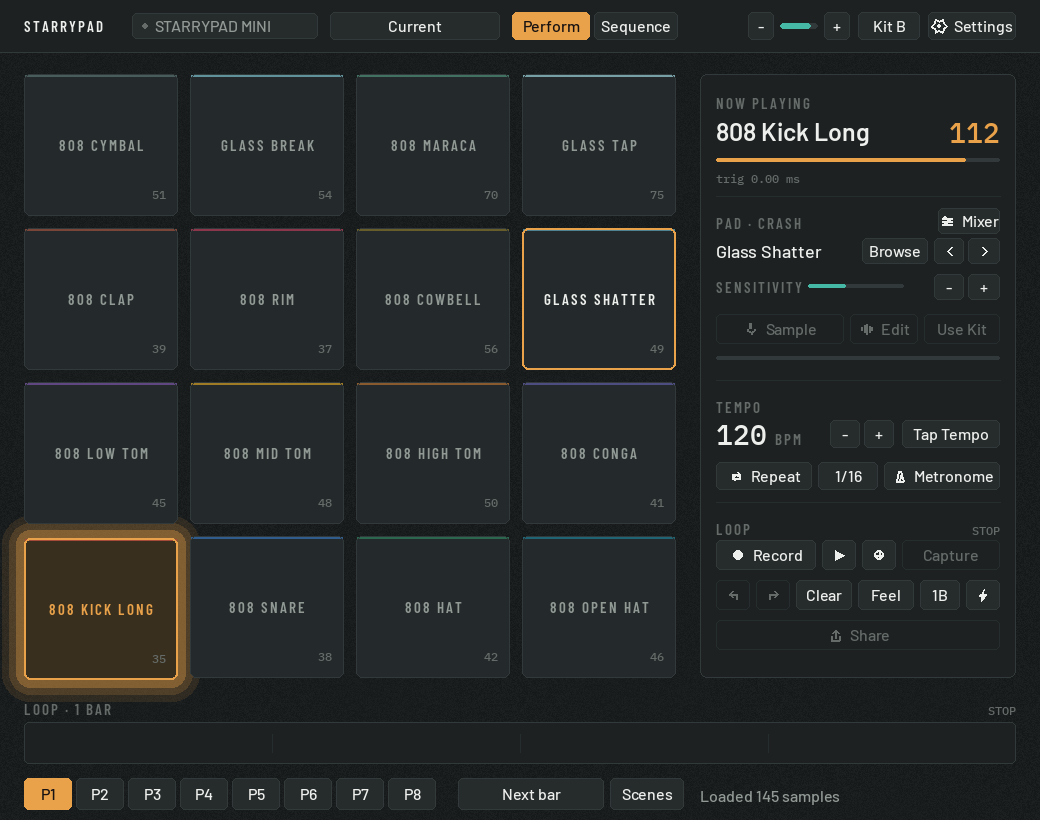
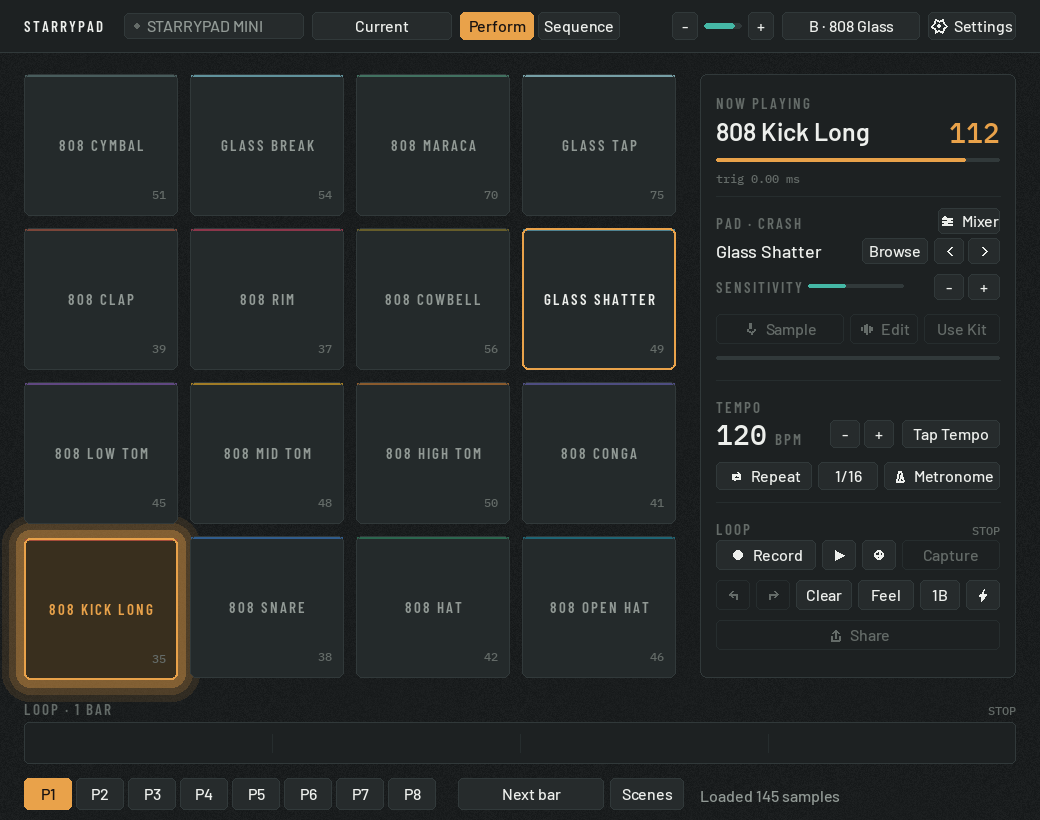
Name the kits, so the sound switch stops hiding
Kit B shipped an 808 kit and then hid it. The header button said "Kit A", which
names a slot and not its contents, while P1 to P8 sat along the bottom looking
exactly like preset buttons. Reaching for P2 to get the new sounds is the
reasonable move when the interface is laid out that way.

Kits are now named. The header reads "A · Acoustic" or "B · 808 Glass", so the
button says what it holds and what switching would get you. K cycles kits from
the keyboard, and switch_kit sets a visible status instead of only writing to
the diagnostics log, which is where the previous confirmation went to die.

The tooltips name both axes: the kit button is "Sound kit, not pattern (K)" with
the current kit appended, and each pattern button is "Pattern N: a rhythm, not a
sound kit". The header was re-laid to make room, shifting the project button and
view tabs left; nothing overlaps at any of the three UI scales.

Patterns keep meaning patterns. Binding kits to them would cost the eight slot
sequencer, its queued switching and its song order, to solve a labelling problem.

diff --git a/drum_pad_native.py b/drum_pad_native.py
@@ -878,6 +878,9 @@ KIT_B_PAD_SYNTHS = (
     "cymbal8", "glass_break", "maraca8", "glass_tap",
 )
 FACTORY_KIT_SYNTHS = {"A": DEFAULT_PAD_SYNTHS, "B": KIT_B_PAD_SYNTHS}
+# Naming the kits is what tells you they hold sounds. "Kit A" told you nothing,
+# so people reached for the pattern buttons instead.
+KIT_NAMES = {"A": "Acoustic", "B": "808 Glass", "C": "Kit C", "D": "Kit D"}
 SYNTH_TO_GM_NOTE = {
     "kick": 36,
     "snare": 38,
@@ -2264,7 +2267,8 @@ class DrumPadNative:
         self.mixer_bypass = False
         self.pad_selection = {self.selected_pad}
         self.persist_settings()
-        self.log(f"Kit: {self.active_kit}")
+        self.status = f"Kit {self.active_kit}: {KIT_NAMES.get(self.active_kit, self.active_kit)}"
+        self.log(self.status)
 
     def adjust_pad_sensitivity(self, amount):
         self.push_project_history()
@@ -3752,6 +3756,8 @@ class DrumPadNative:
             self.request_loop_command("REDO")
         elif key == pygame.K_c:
             self.request_loop_command("CAPTURE")
+        elif key == pygame.K_k:
+            self.switch_kit()
         elif key == pygame.K_q:
             self.request_loop_command("QUANTIZE")
         elif key == pygame.K_s:
@@ -6363,13 +6369,16 @@ class DrumPadNative:
             "loop_quantize": "Feel and quantize  (Q)", "loop_clear": "Clear the loop",
             "loop_bars": "Loop length", "repeat": "Note repeat  (N)",
             "repeat_rate": "Repeat subdivision", "metro": "Metronome  (M)",
-            "tap": "Tap tempo", "kit": "Switch kit", "settings": "Settings",
+            "tap": "Tap tempo", "settings": "Settings",
             "project": "Projects: new, open, save as", "browser": "Browse sounds",
             "mixer": "Pad mixer", "perform_fx": "Perform FX", "share": "Share and export",
             "sample_edit": "Edit the sample", "sample_clear": "Back to the kit sound",
             "view_perform": "Play the pads", "view_sequence": "Step sequencer",
             "reconnect": "Reconnect MIDI and audio",
         }
+        labels["kit"] = f"Sound kit, not pattern  (K)  \u00b7  now {KIT_NAMES.get(self.active_kit, self.active_kit)}"
+        for slot in range(PATTERN_COUNT):
+            labels[f"pattern_{slot}"] = f"Pattern {slot + 1}: a rhythm, not a sound kit"
         if not self.audio_inputs_available:
             labels["sample"] = "No audio input connected"
         else:
@@ -6410,29 +6419,29 @@ class DrumPadNative:
         audio_ready = bool(pygame.mixer.get_init())
         if connected and audio_ready:
             name, dot, _hint = self.midi_activity()
-            self.draw_chip(pygame.Rect(132, 13, 186, 26), name, dot)
+            self.draw_chip(pygame.Rect(124, 13, 180, 26), name, dot)
         else:
-            self.buttons["reconnect"] = pygame.Rect(132, 12, 118, 28)
+            self.buttons["reconnect"] = pygame.Rect(124, 12, 118, 28)
             self.draw_button(self.buttons["reconnect"], "Reconnect", danger=True)
 
-        self.buttons["project"] = pygame.Rect(330, 12, 170, 28)
+        self.buttons["project"] = pygame.Rect(312, 12, 140, 28)
         self.draw_button(self.buttons["project"], self.project_name[:22])
 
-        self.buttons["view_perform"] = pygame.Rect(512, 12, 78, 28)
-        self.buttons["view_sequence"] = pygame.Rect(594, 12, 84, 28)
+        self.buttons["view_perform"] = pygame.Rect(460, 12, 74, 28)
+        self.buttons["view_sequence"] = pygame.Rect(538, 12, 82, 28)
         self.draw_button(self.buttons["view_perform"], "Perform", active=self.view_mode == "Perform")
         self.draw_button(self.buttons["view_sequence"], "Sequence", active=self.view_mode == "Sequence")
 
         peaking = time.perf_counter() < self.master_peak_warning_until
         if peaking:
             peak = self.data_font_sm.render("PEAK", True, theme.DANGER)
-            self.screen.blit(peak, (694, 26 - peak.get_height() // 2))
+            self.screen.blit(peak, (630, 26 - peak.get_height() // 2))
 
-        self.buttons["vol_down"] = pygame.Rect(748, 12, 26, 28)
-        self.buttons["vol_up"] = pygame.Rect(824, 12, 26, 28)
+        self.buttons["vol_down"] = pygame.Rect(672, 12, 26, 28)
+        self.buttons["vol_up"] = pygame.Rect(748, 12, 26, 28)
         self.draw_button(self.buttons["vol_down"], "-")
         self.draw_button(self.buttons["vol_up"], "+")
-        volume_track = pygame.Rect(780, 23, 38, 6)
+        volume_track = pygame.Rect(704, 23, 38, 6)
         pygame.draw.rect(self.screen, theme.RULE, volume_track, border_radius=3)
         pygame.draw.rect(
             self.screen,
@@ -6441,9 +6450,12 @@ class DrumPadNative:
             border_radius=3,
         )
 
-        self.buttons["kit"] = pygame.Rect(858, 12, 62, 28)
+        self.buttons["kit"] = pygame.Rect(782, 12, 138, 28)
         self.buttons["settings"] = pygame.Rect(928, 12, 88, 28)
-        self.draw_button(self.buttons["kit"], f"Kit {self.active_kit}")
+        self.draw_button(
+            self.buttons["kit"],
+            f"{self.active_kit} \u00b7 {KIT_NAMES.get(self.active_kit, self.active_kit)}",
+        )
         self.draw_button(self.buttons["settings"], "Settings", icon="gear")
     def midi_activity(self):
         """Chip text and dot colour for the open MIDI port.

diff --git a/test_drum_pad_native.py b/test_drum_pad_native.py
@@ -802,6 +802,25 @@ class KitBTests(unittest.TestCase):
             onset_ms = int(numpy.argmax(mono > mono.max() * 0.02)) / 48.0
             self.assertLess(onset_ms, 1.0, f"{name} starts {onset_ms:.2f} ms late")
 
+    def test_every_slot_has_a_name_worth_reading(self):
+        for slot in drum.KIT_SLOTS:
+            self.assertIn(slot, drum.KIT_NAMES)
+        # The two shipped kits say what they hold, not just which slot they are.
+        self.assertEqual(drum.KIT_NAMES["A"], "Acoustic")
+        self.assertEqual(drum.KIT_NAMES["B"], "808 Glass")
+
+    def test_k_switches_kit_and_says_so(self):
+        import pygame
+
+        app = drum.DrumPadNative(settings_path=None)
+        self.assertEqual(app.active_kit, "A")
+        with mock.patch.object(pygame.key, "get_mods", return_value=0):
+            self.assertTrue(app.handle_key(pygame.K_k))
+        self.assertEqual(app.active_kit, "B")
+        self.assertEqual(app.pad_synths, list(drum.KIT_B_PAD_SYNTHS))
+        # switch_kit only logged before, so the change was invisible on screen.
+        self.assertIn("808 Glass", app.status)
+
     def test_a_new_session_starts_with_the_shipped_kits(self):
         app = drum.DrumPadNative(settings_path=None)
         self.assertEqual(app.kit_slots["A"]["pad_synths"], list(drum.DEFAULT_PAD_SYNTHS))

diff --git a/README.md b/README.md
@@ -62,10 +62,14 @@ Controls:
 
 - `Device`: cycle MIDI input devices.
 - `DONNER` / `GM` / `Learn`: cycle Starrypad preset mapping mode.
-- `Kit A` through `Kit D`: save and recall independent pad sounds and sensitivities.
-  Kit A ships the acoustic Salamander kit; Kit B ships a TR-808 core with glass
-  on the cymbal and hand percussion pads. Kits C and D start as copies of A.
-  A kit you have edited is never replaced when a newer factory kit ships.
+- **Kits hold sounds; patterns hold rhythms.** They are separate, and the
+  header button names the kit you are on: `A · Acoustic`, `B · 808 Glass`.
+  Press `K` or click it to cycle. Kit A ships the acoustic Salamander kit, Kit B
+  a TR-808 core with glass on the cymbal and hand percussion pads, and C and D
+  start as copies of A. A kit you have edited is never replaced when a newer
+  factory kit ships.
+- `P1` through `P8` along the bottom are the eight **pattern** slots for the
+  sequencer. They change what is played, never what it is played with.
 - `Reset`: reset the current mapping mode.
 - `+` / `-`: adjust volume.
 - Click a pad to select it, then use the `Sound` arrows or `Sensitivity` controls.
